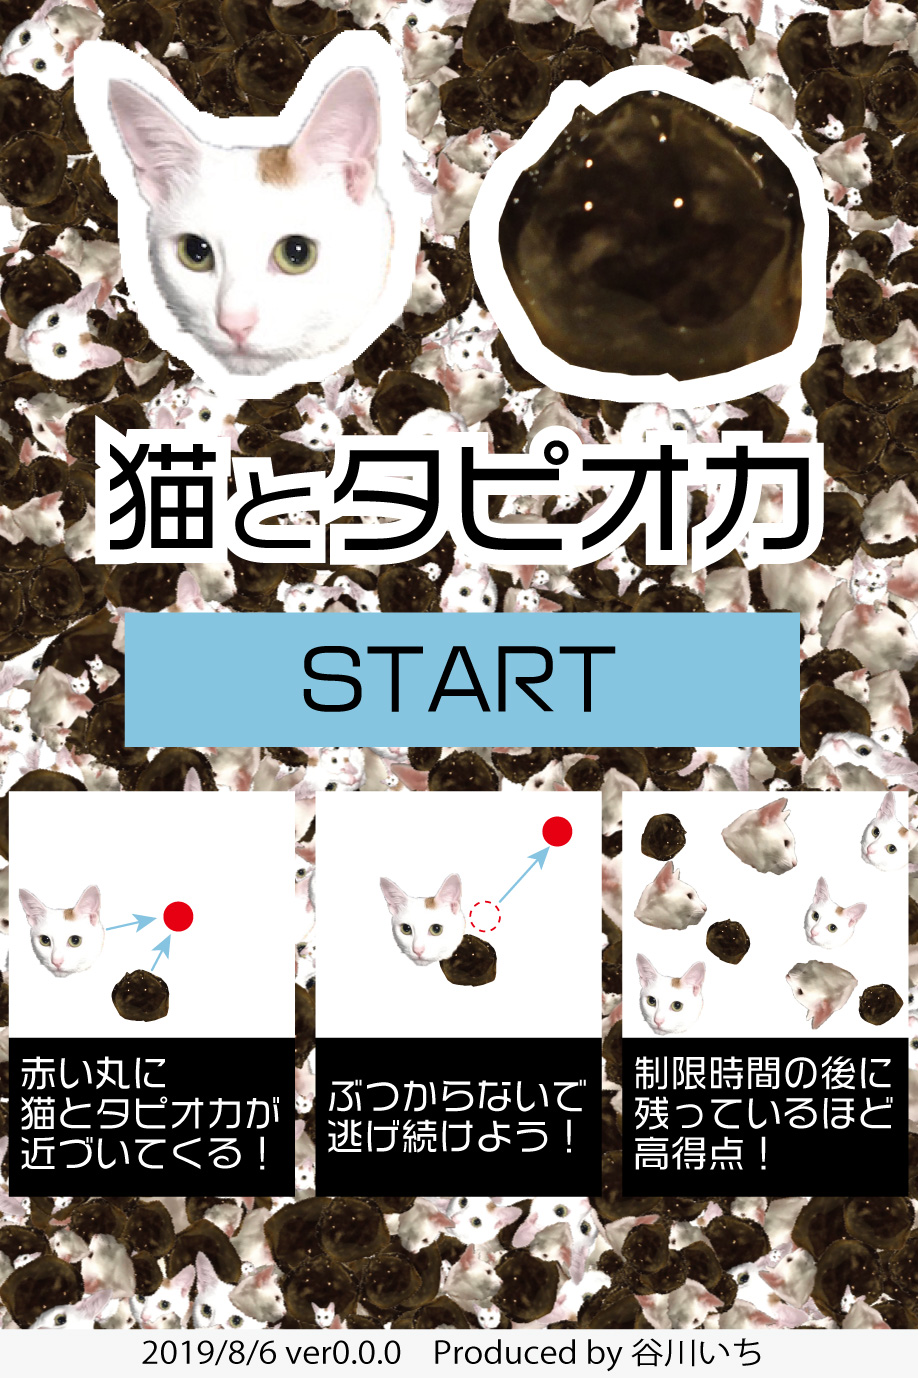
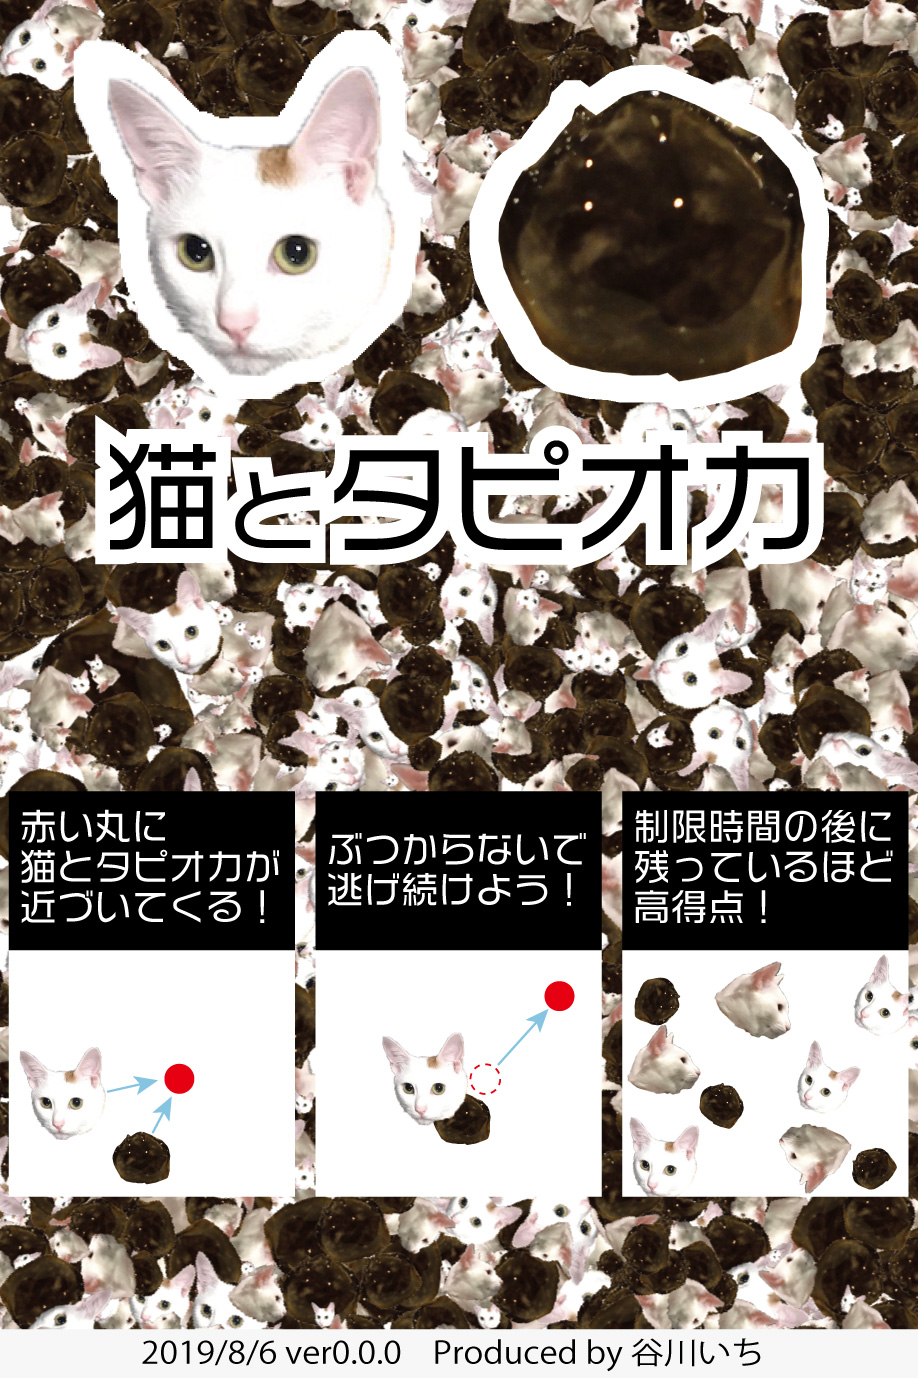
フォントを揃えた

Changed region(s): [[0.0, 0.4369, 1.0, 0.8737]]

diff --git a/script.js b/script.js
@@ -8,8 +8,9 @@ var ASSETS = {
     'tapioka1': './tapioka1.png',
     'tapioka2': './tapioka2.png',
     'title': './title.jpg',
-    'finish': './finishbutton.jpg',
-    'nekotapi': './nekototapiocatxt.jpg',
+    'start': './startbutton.jpg',
+    'finish': './finishbutton.png',
+    'nekotapi': './nekototapiocatxt.png',
   },
 };
 var TAPIOKA_MAX_NUM = 100;
@@ -34,10 +35,20 @@ phina.define('MyTitleScene', {
     this.titlePic = Sprite('title').addChildTo(this);
     this.titlePic.x = this.gridX.center();
     this.titlePic.y = this.gridY.center();
-  },
-  update: function () {
-    this.titlePic.x = this.gridX.center();
-    this.titlePic.y = this.gridY.center();
+
+    this.startbutton = Sprite('start').addChildTo(this);
+    this.startbutton.x = this.gridX.center();
+    this.startbutton.y = this.gridY.center();
+    //ボタンにタッチイベントを仕込んで遷移させると、なぜか妙な挙動をする
+    //そこで、ボタンは見せかけで、どこを押しても始まるようにしてみた
+    // タッチを有効にする
+    //this.startbutton.setInteractive(true);
+    // タッチイベント登録
+    //scene = this; //buttomの関数の中からのthisは、buttomのことになる。そこで、いったん代入
+    //this.startbutton.onclick = function () {
+      // 画面遷移
+      //scene.exit();
+    //}
   },
   onclick: function () {
     //次のシーンへ移動
@@ -228,7 +239,7 @@ phina.define("MainScene", {
     if (this.time >= TIME + 1000) {
       this.finishrec2 = Sprite('nekotapi').addChildTo(this.resultgroup);
       this.finishrec2.x = this.gridX.center();
-      this.finishrec2.y = this.gridY.span(8);
+      this.finishrec2.y = this.gridY.span(8)-50;
 
       //スコア表示
       var resultScoreTxt = Label(this.objcnt + '個').addChildTo(this.resultgroup);
@@ -236,7 +247,7 @@ phina.define("MainScene", {
       resultScoreTxt.x = this.gridX.center();
       resultScoreTxt.y = this.gridY.span(9)-40;
       resultScoreTxt.fontSize = 96;
-      resultScoreTxt.fill = 'white';
+      resultScoreTxt.fill = 'black';
     }
 
     if (this.time >= TIME + 2000) {
